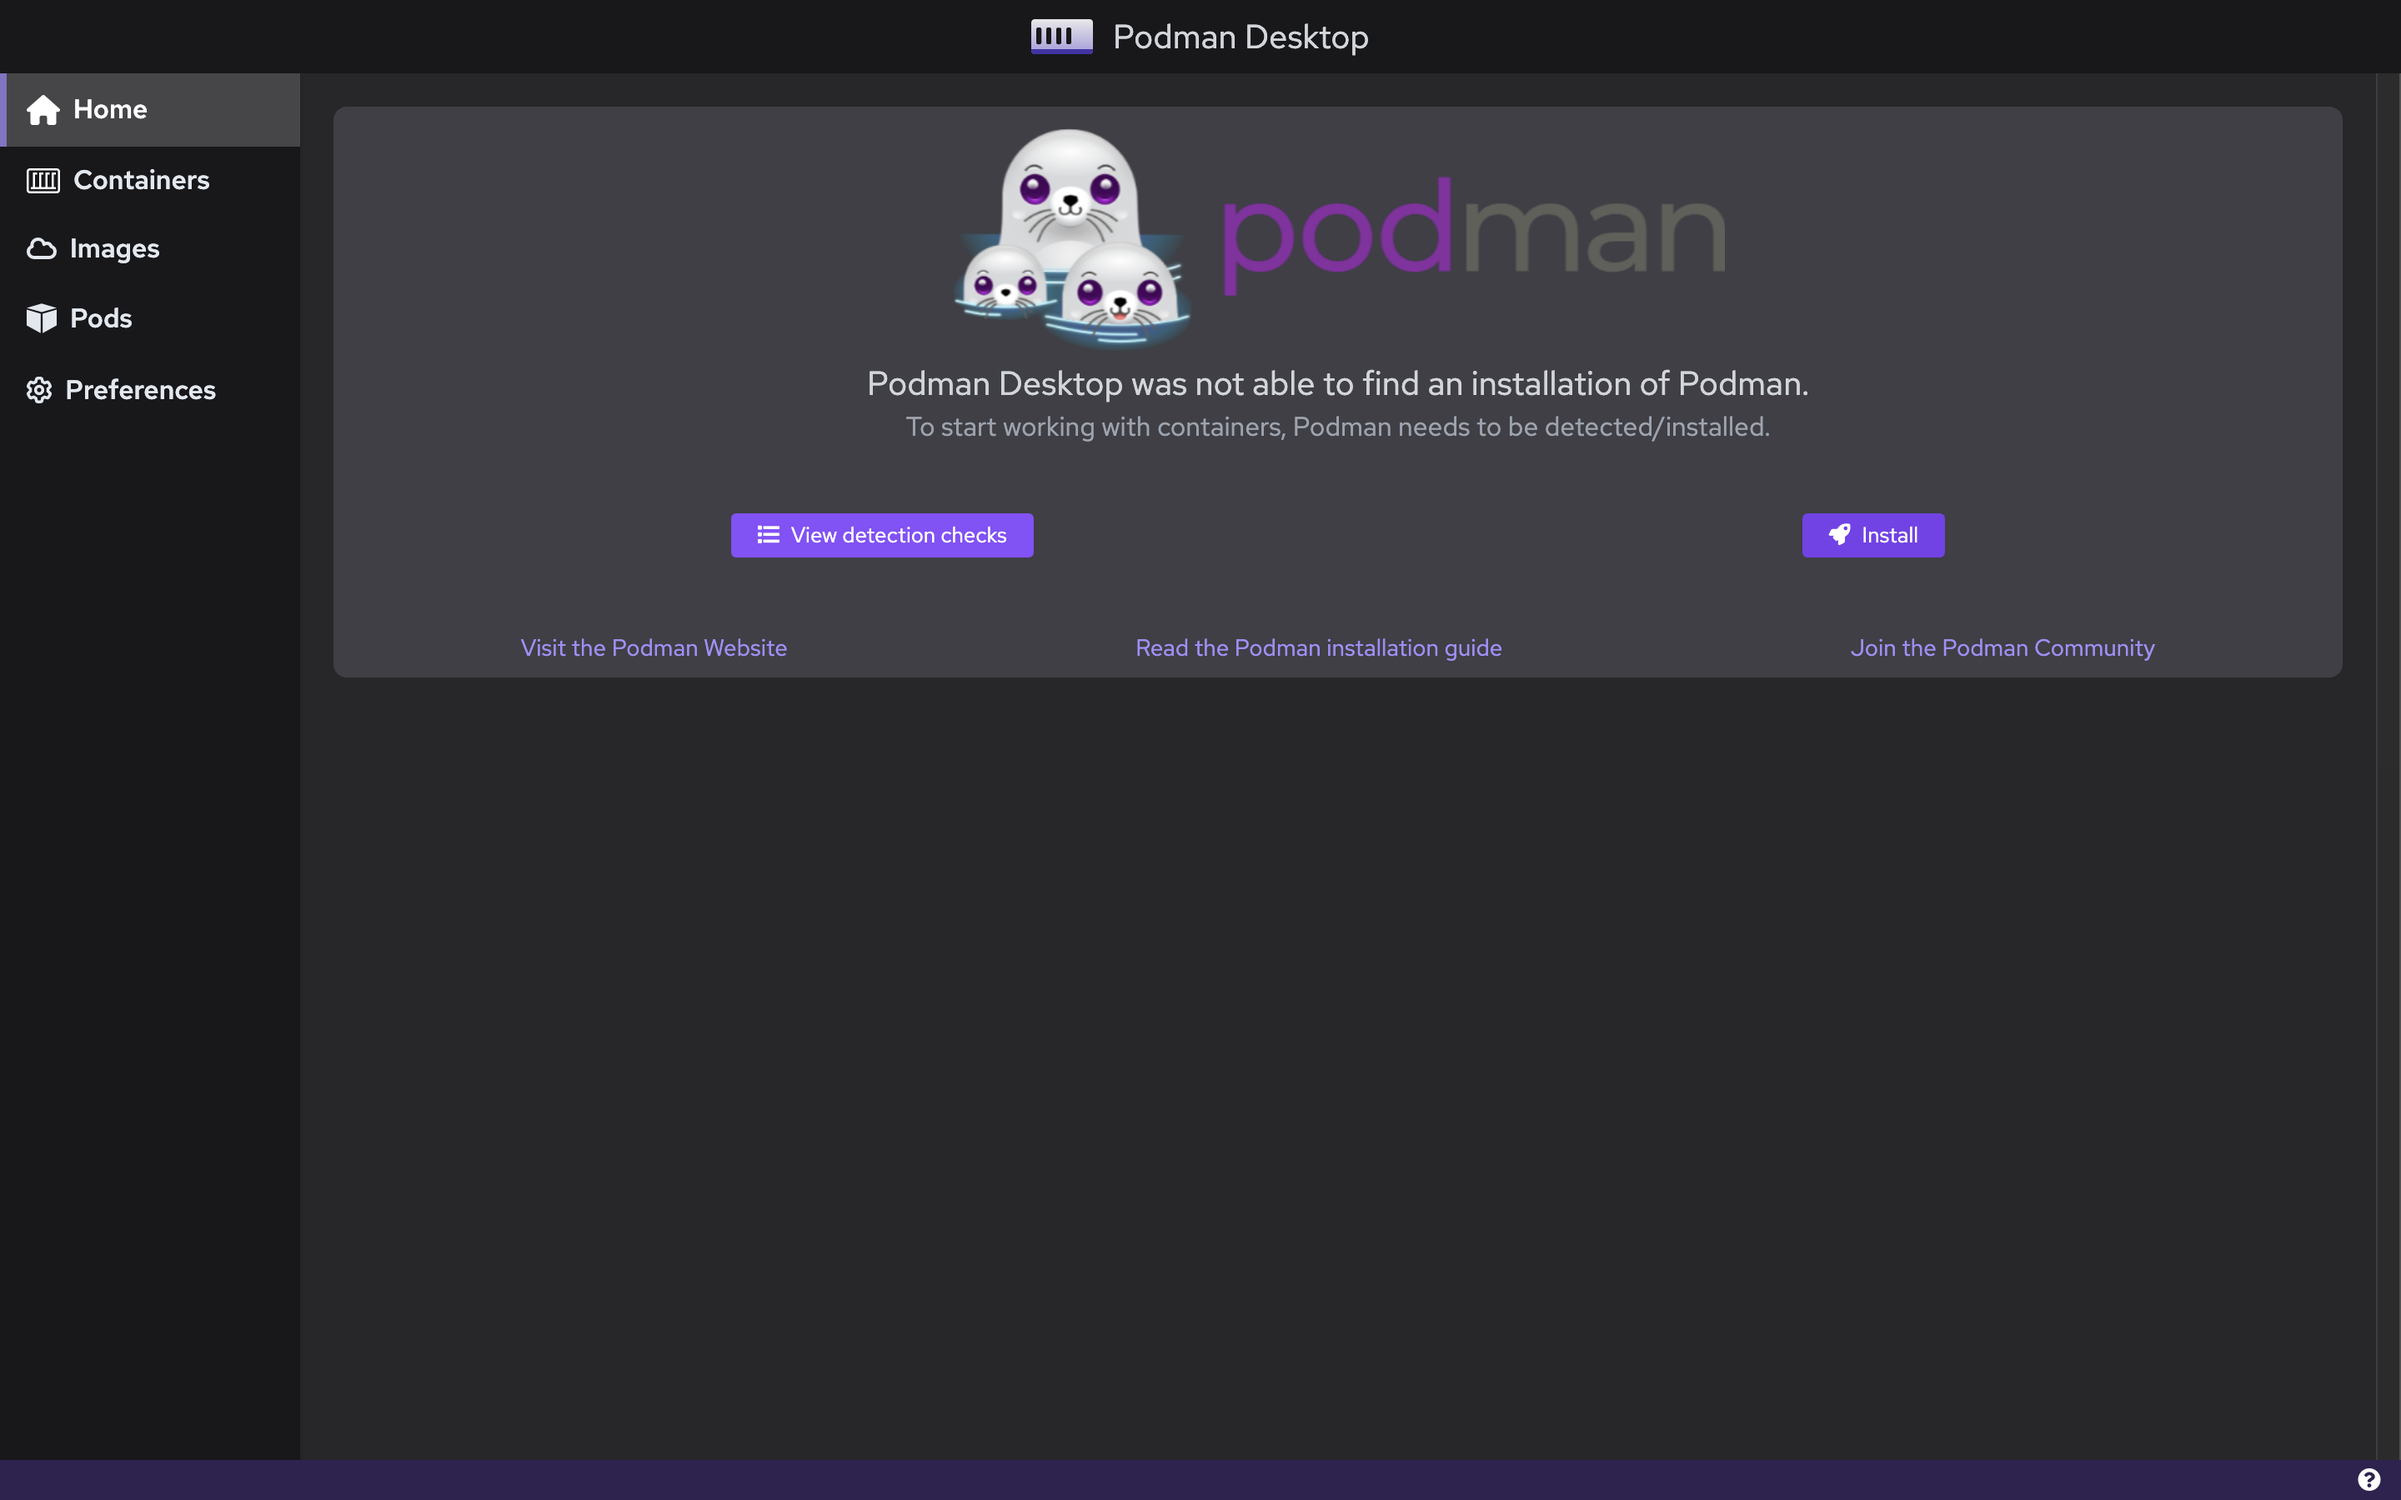
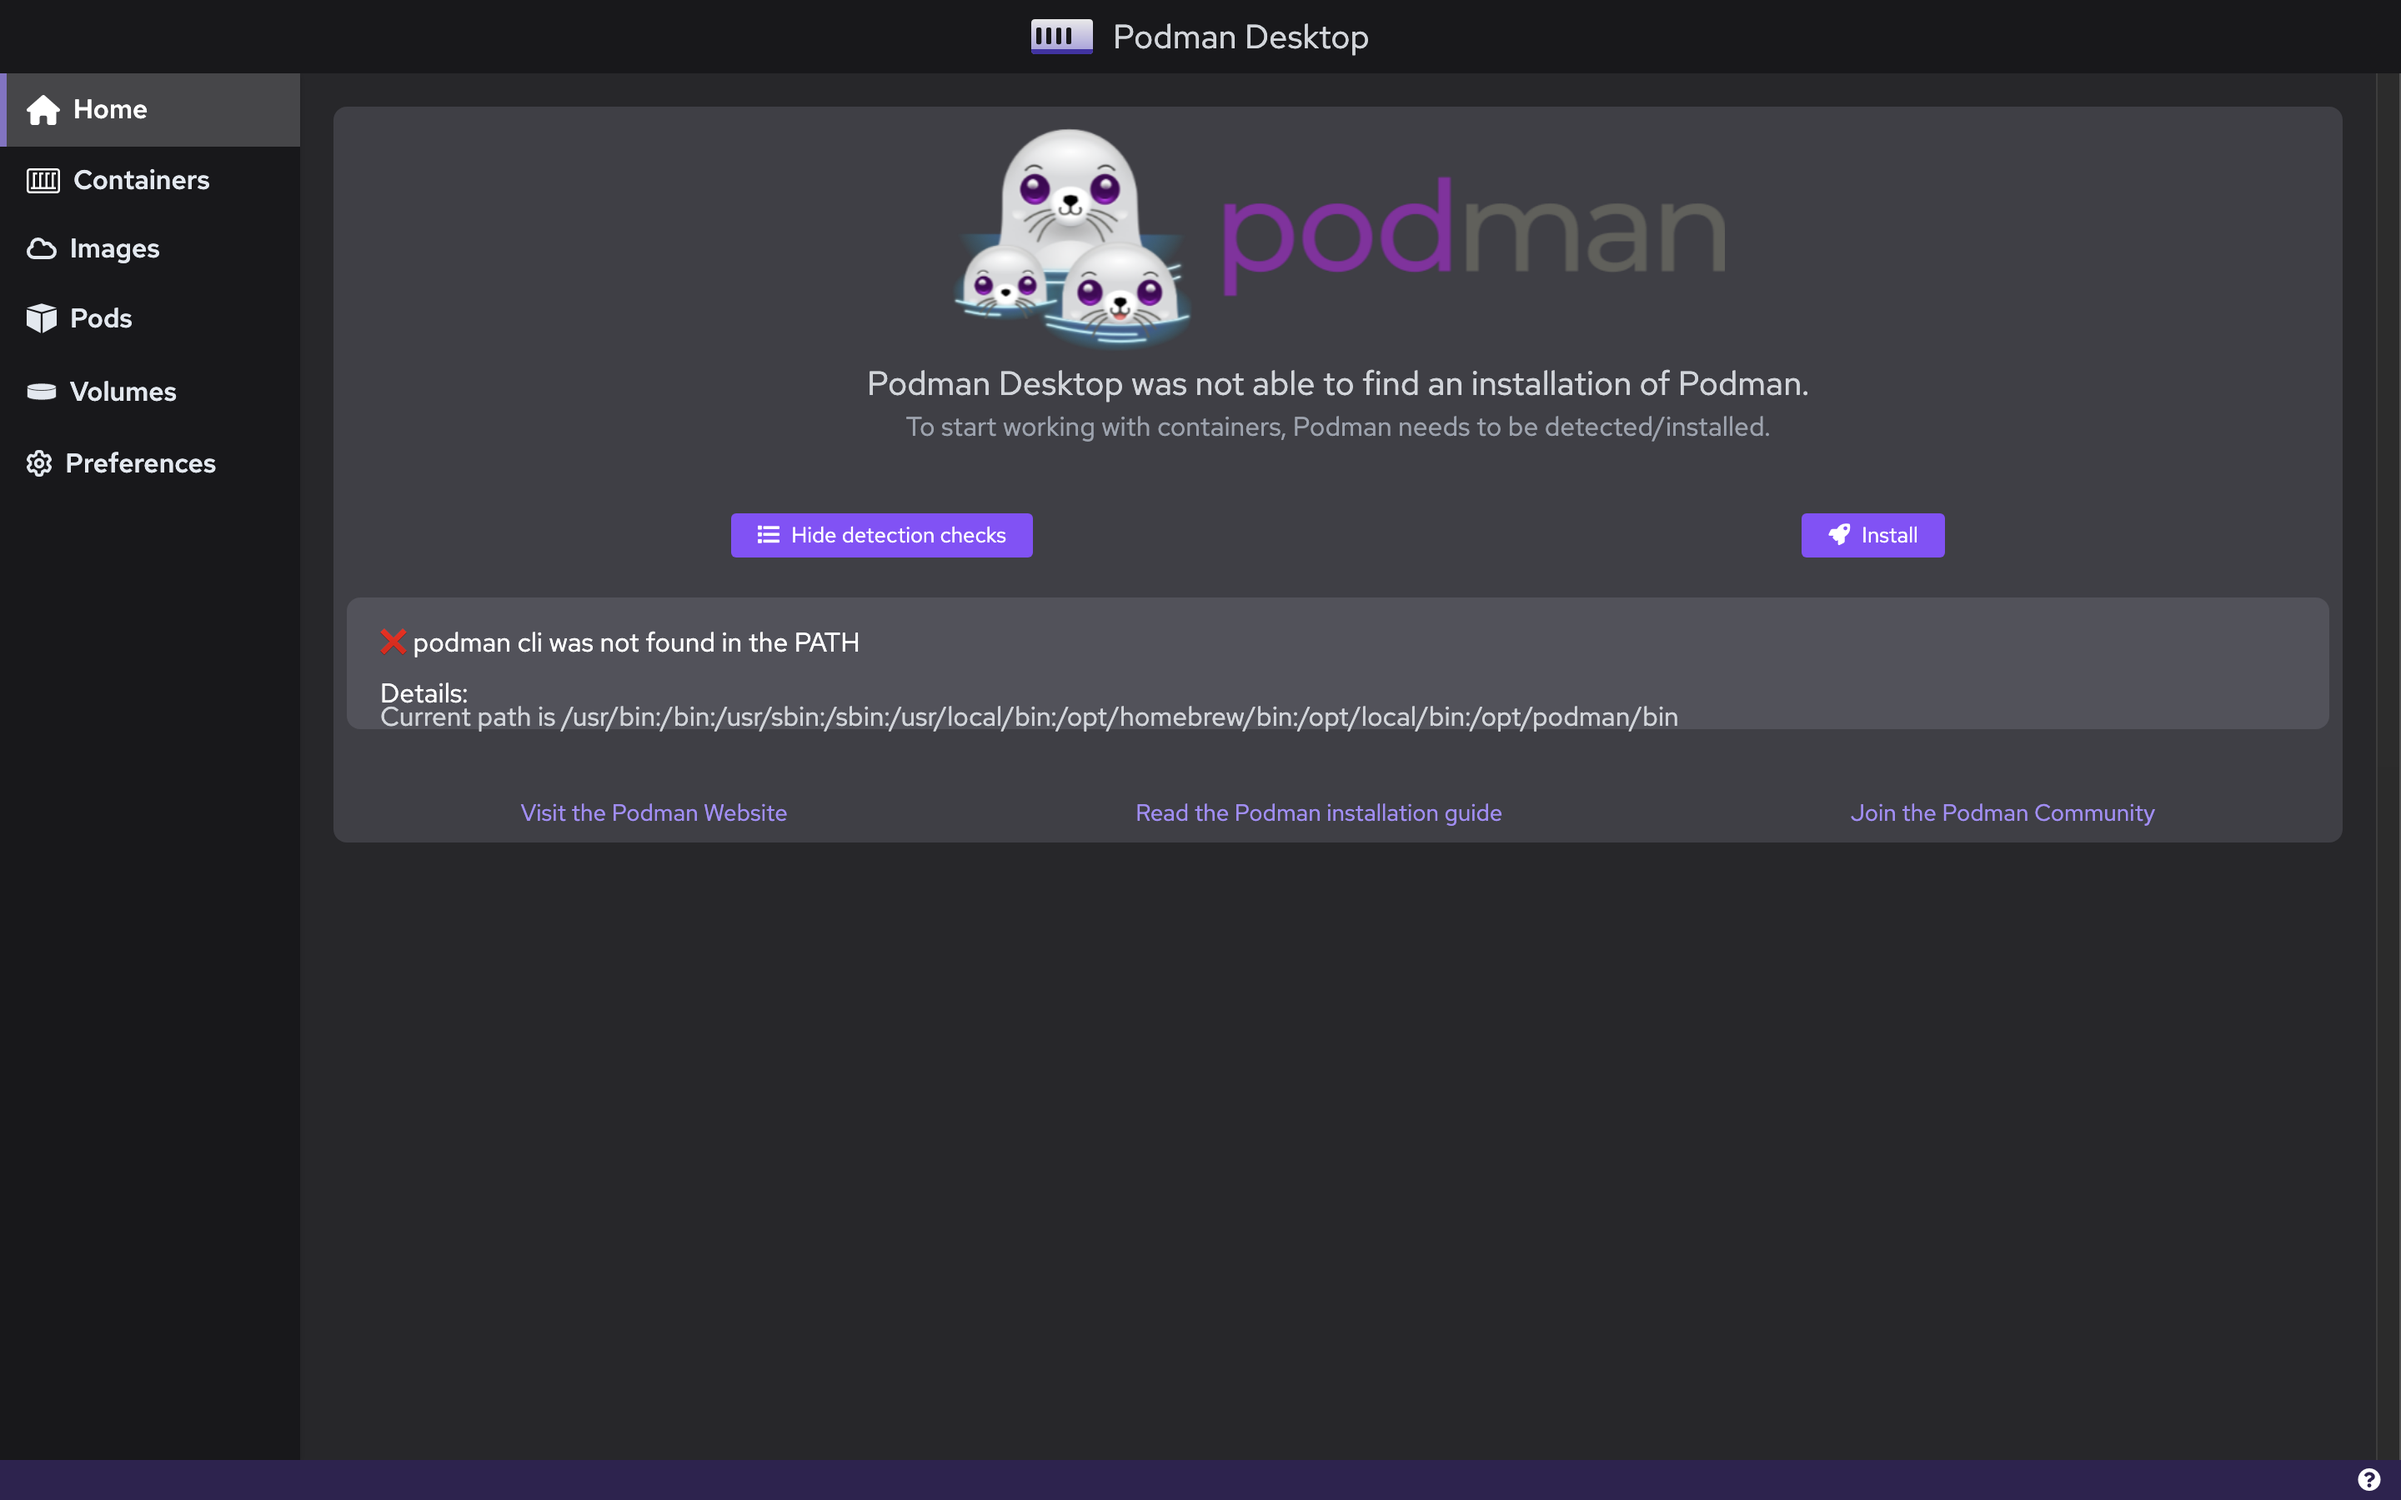
recommended changes to macos guide

Changed region(s): [[0.125, 0.4044, 1.0, 0.56], [0.0, 0.2489, 0.0938, 0.3111]]

diff --git a/website/docs/Installation/macos-install.md b/website/docs/Installation/macos-install.md
@@ -5,29 +5,33 @@ sidebar_position: 3
 # MacOS
 ## Installing Podman Desktop on MacOS using .dmg file
 
-If you already have a Podman machine up and running, you can check out the [Downloads](/downloads/macos) section of this website to get the applicable .dmg file depending on your Mac Hardware Architecture (i.e. Intel or Apple M1).
+In order to install Podman Desktop and start running containers, you need to download the .dmg file from the [Downloads](/downloads/macos) section of this website. 
 
-If you are new to Podman and do not have a Podman Machine up and running, fret not. Downloading and Installing Podman Desktop allows you to get all the dependencies as well.
+While we recommend getting the "universal" binary file which will work irrespective of the chip architecture your Mac possesses, you also have the option to get the applicable .dmg file depending on your Mac Hardware Architecture (i.e. Intel or Apple M1).
 
-Simply download the file from the [Downloads](/downloads/macos) section and open it in your machine to install Podman Desktop.
+### 1. Download the file
+
+Simply download the file of your choice from the [Downloads](/downloads/macos) section and open it in your machine to install Podman Desktop.
 
 Once you open it, the system will prompt you to drag the icon to the Applications folder.
 
 ![img1](img/click-and-drag.png)
 
-After which, you are just a click away from using Podman Desktop.
+After which, you are just a click away from using Podman Desktop. You can find Podman Desktop either on the 'Launchpad' or Mac's 'Applications' directory.
 
-If you already have Podman installed, you are ready to build images and run containers. Learn more on how to get started with Podman Desktop by clicking [here](/docs/getting-started/getting-started).
+### 2. Check for Prerequisites
 
-If the system does not have Podman installed, you will be prompted as follows.
+When you open Podman Desktop for the first time, click on the "View detection checks" button to see if all the prerequisites to use Podman Desktop are met. If it says `❌ podman cli was not found in the PATH`, then you need to install the Podman CLI/Engine which can be done within the application. You can read more about Podman Engine [here](https://docs.podman.io/en/latest/).
 
 ![img2](img/pd-before-podman.png)
 
-You can click on the "Install" button and follow the instructions on screen. You will be redirected to the Podman Installer. Follow the instructions on screen and enter your system password when asked.
+### 3. Install Podman CLI/Engine
+
+In order to get Podman CLI/Engine, you can click on the "Install" button next to the "View detection checks" button, and follow the instructions on screen. You will be redirected to the Podman Installer. Follow the instructions on screen and enter your system password when asked.
 
 ![img3](img/system-pass.png)
 
-After installation is complete, close the Installer and you are all set to build images and run containers using Podman Desktop.
+After installation is complete, close the Installer and you are all set to build images and run containers using Podman Desktop. Learn more on how to get started with Podman Desktop by clicking [here](/docs/getting-started/getting-started).
 
 ## Installing Podman Desktop on MacOS using [brew](https://brew.sh/).
 
@@ -39,4 +43,4 @@ To install Podman Desktop, simply run the command below:
 brew install podman-desktop
 ```
 
-After the command is executed, you can find the Podman Desktop Application within the Applications directory of the MacOS.
+After the command is executed, you can find the Podman Desktop Application within the Applications directory of the MacOS. Brew will also install the Podman CLI/Engine along with the Podman Desktop application. In this case, you thus need not worry about any dependency.
